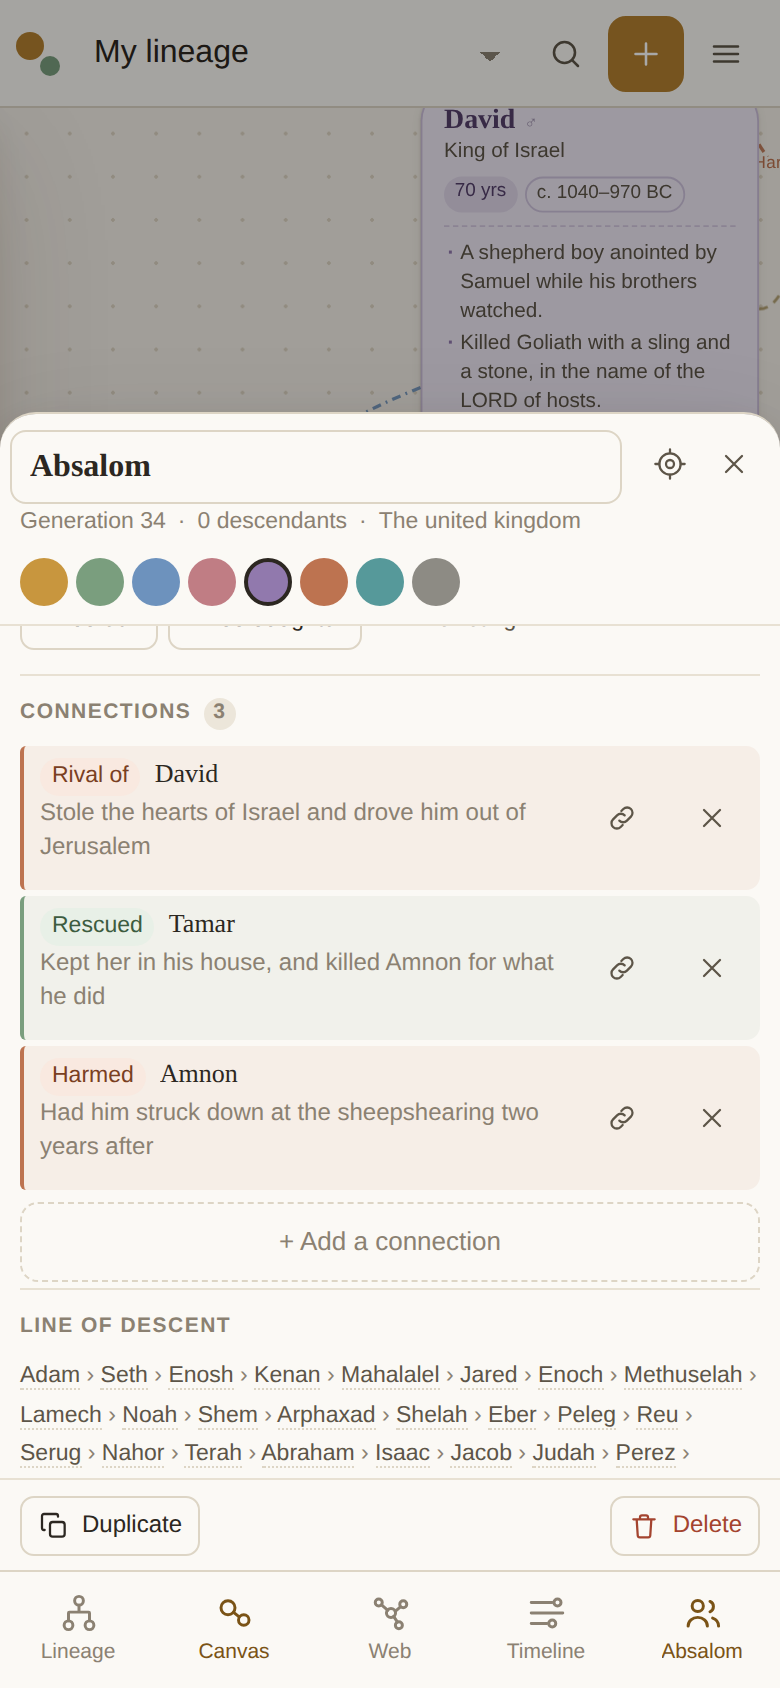
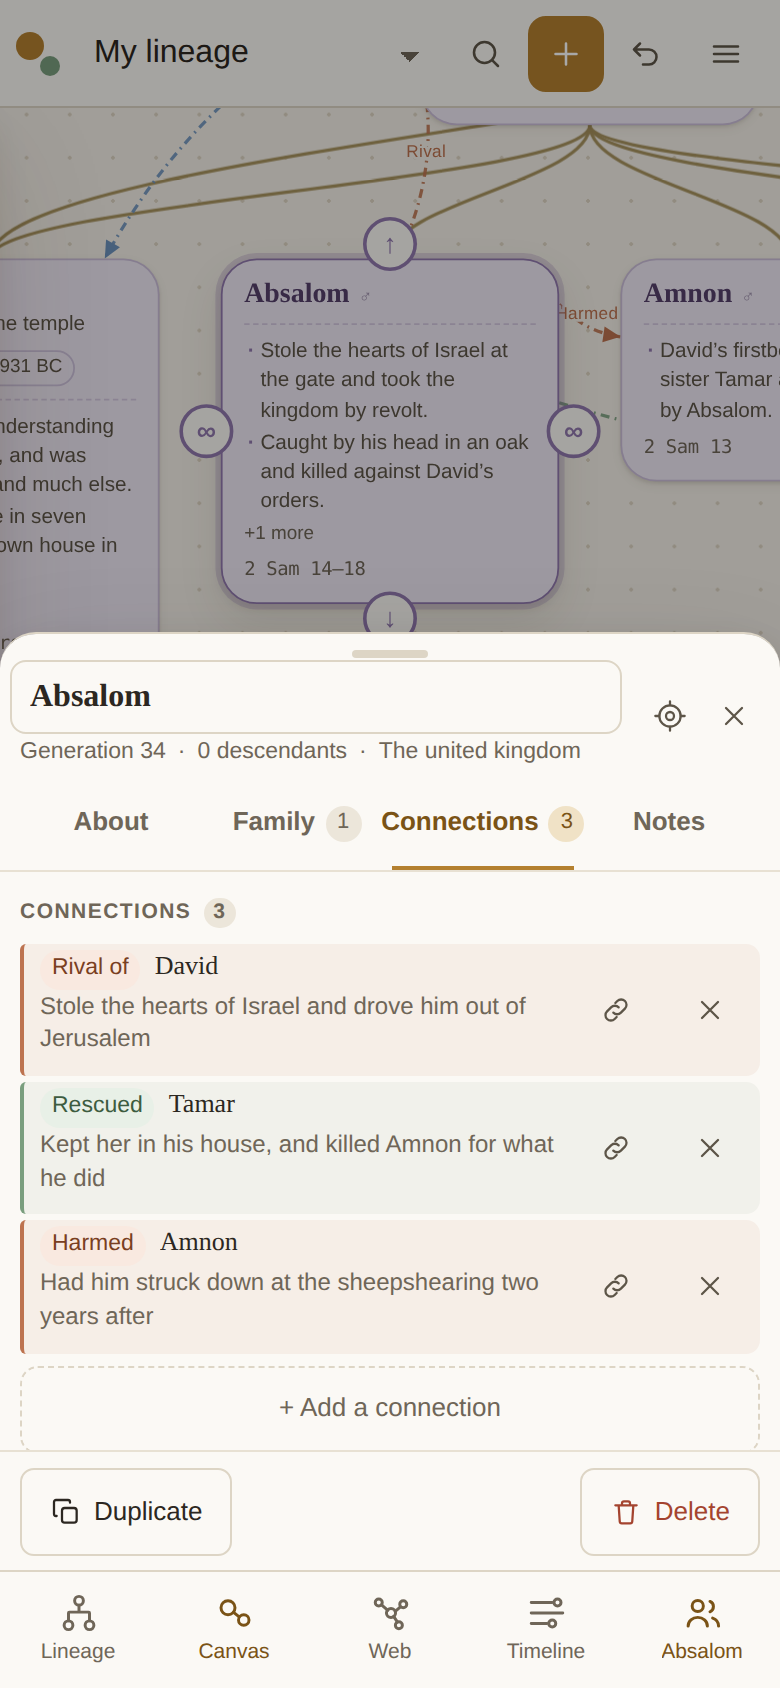
Retake the screenshots, and finish the README
The phone shots showed a canvas with nothing to say who you had tapped and a
detail sheet that was still one long scroll. They now show the card and the
paged sheet, and the web and timeline toolbars as they actually are.

Adds the panels, the URL and the undo offer to the text, and css/panels.css
to the layout.

Claude-Session: https://claude.ai/code/session_01KL5mAvrdriFCN2ikPAvnpU

diff --git a/README.md b/README.md
@@ -143,7 +143,21 @@ other person — drag around, pinch, take your time — tap them, and say how th
 related. Handles still work if you prefer them.
 
 Details opens as a sheet over the canvas, and the canvas shifts so the person it
-is about stays visible above it. Flick the sheet down to dismiss it.
+is about stays visible above it. Flick the sheet down to dismiss it. Inside, the
+seven sections become four pages — **About**, **Family**, **Connections**,
+**Notes** — so the one you want is a tap away rather than a scroll. It remembers
+which page you left each person on, and tapping a relative walks you to them
+without closing anything, so following a family is one tap a step. Typing lifts
+the sheet over the keyboard instead of hiding the field under it.
+
+The other two views answer the same way. **Tap a circle in the web** and you get
+the person, not a tooltip; its display controls move into a sheet so the graph
+keeps the screen. On the **timeline**, one tap picks a name out and a second
+opens it — every name is already on screen, so a sheet on the first touch would
+cost more than it tells you — and the names column scrolls when you drag it.
+
+**Export offers the share sheet** where the phone has one, so a board can go
+straight to Files, a note, or a message.
 
 <p align="center">
   <img src="docs/mobile-canvas.png" alt="The canvas on a phone" width="23%">
@@ -158,6 +172,14 @@ connections, a lineage outline in the sidebar, a tidy auto-layout that arranges
 the whole board into generations, light and dark themes, and export to JSON,
 Markdown or CSV. The layout adapts from a phone up to a wide desktop, and every
 control is sized for a finger on touch devices.
+
+**Where you are is in the URL** — `?view=web`, `#p=noah` — so a view or a person
+can be linked to, bookmarked or reopened, and the back button steps between views
+instead of out of the app.
+
+**Undo finds you.** Lose someone by accident and the offer to put them back
+arrives where it happened, not just on a keyboard shortcut you cannot press on a
+phone: *Deleted Ruth · Undo*.
 
 ![Dark theme](docs/dark.png)
 
@@ -223,6 +245,7 @@ sw.js               the service worker: precache the shell, serve it offline
 icons/              the app icon, maskable and Apple variants
 css/app.css         the main stylesheet, themed with custom properties
 css/web.css         styles for the web view
+css/panels.css      the detail sheet, drawer and timeline on a phone
 css/mobile.css      phone-only canvas styling, loaded last
 css/pwa.css         the install prompt
 js/util.js          helpers, the palette, year parsing and formatting
